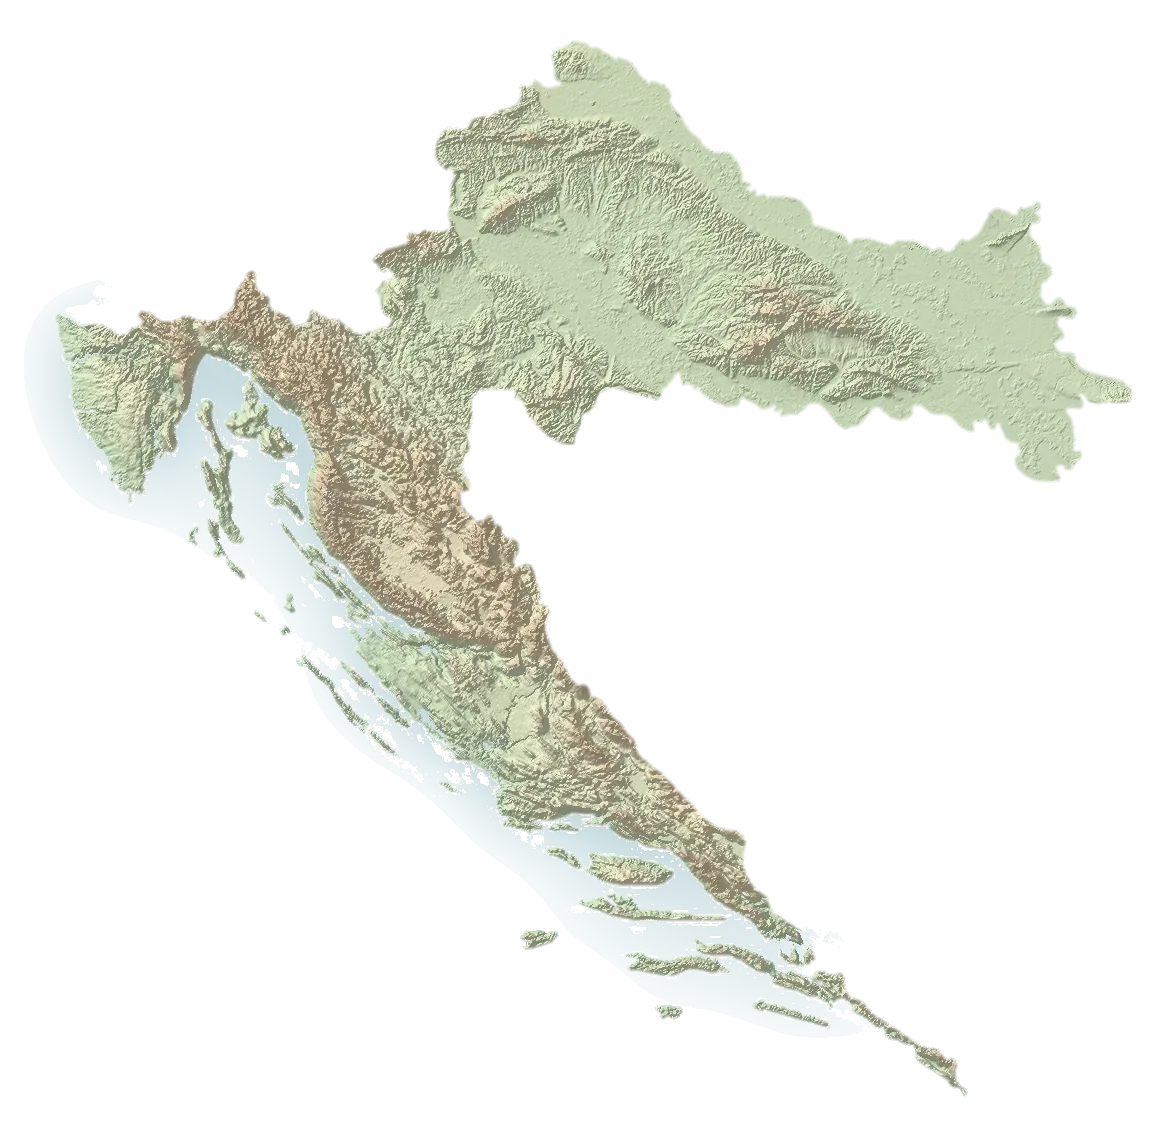
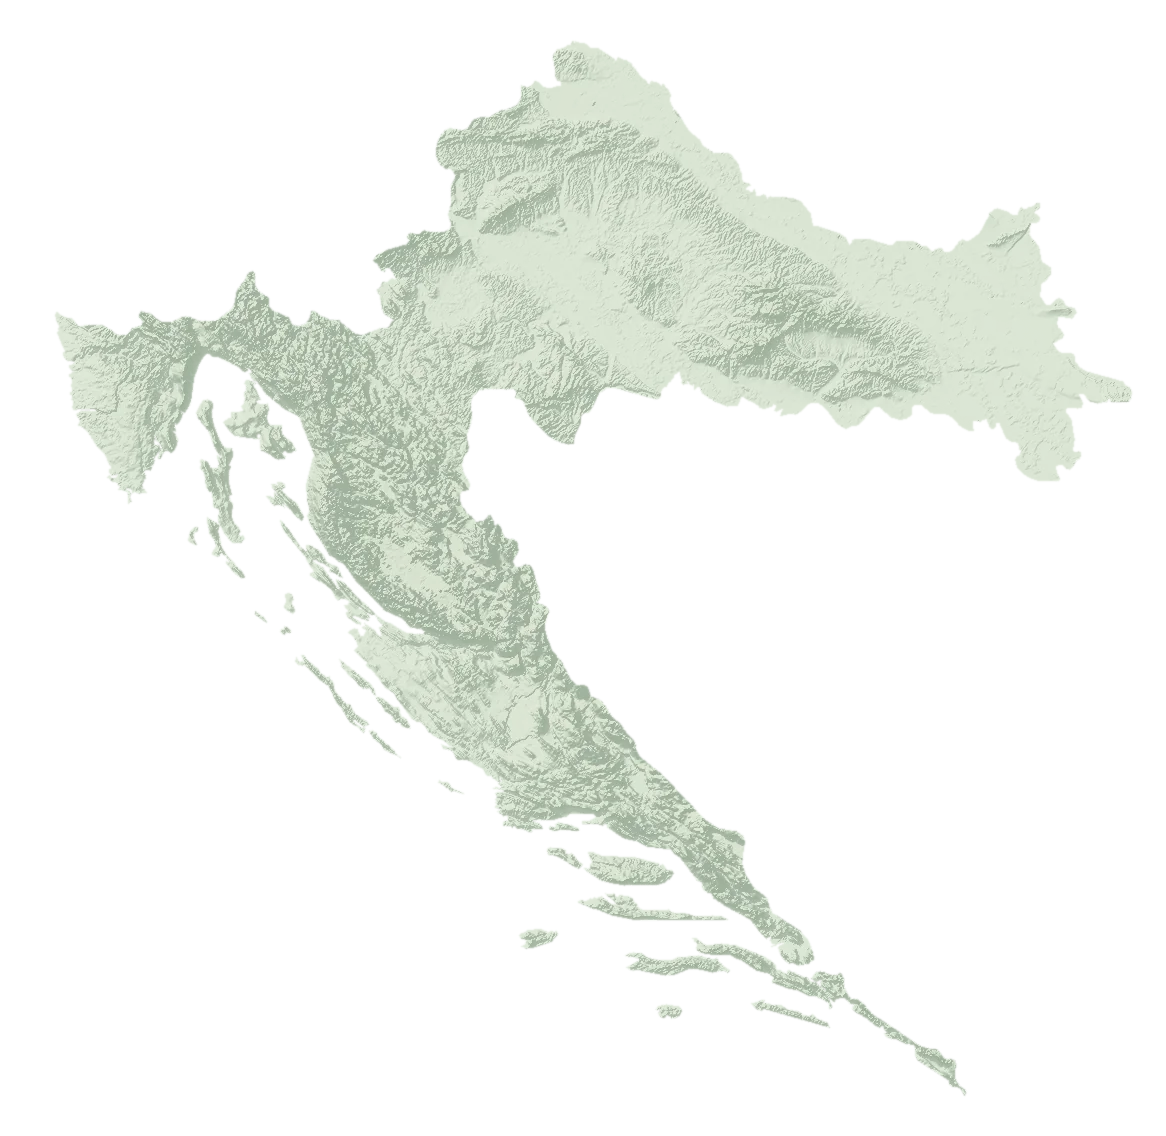
Modern sage relief map of Croatia, further right and quieter under the text

Changed region(s): [[0.0309, 0.0308, 0.988, 0.9243], [0.741, 0.8935, 0.8336, 0.9551], [0.4322, 0.8011, 0.494, 0.8319]]

diff --git a/styles.css b/styles.css
@@ -1191,3 +1191,10 @@ body.loaded .home-hero > .scroll-cue { transform: none; }
 .hr-pin b { font: 500 0.62rem "DM Sans", var(--sans); letter-spacing: 0.22em; text-transform: uppercase; color: var(--green); }
 @media (max-width: 760px) { .hr-map { width: 115vw; right: -25vw; bottom: auto; top: 30%; opacity: 0.3; } }
 .hr-map { opacity: 0.5; bottom: -4%; -webkit-mask-image: none; mask-image: none; }
+/* Modern sage map: further right, softer, quietly under the text */
+.hr-map { width: min(50vw, 720px); right: min(-6vw, -40px); top: 50%; bottom: auto; transform: translateY(-44%); opacity: 0.42; }
+@media (max-width: 760px) { .hr-map { width: 125vw; right: -45vw; top: 40%; opacity: 0.25; } }
+/* Map sits quietly under the text: further right, softer, only a small dot for Rijeka */
+.hr-map { right: min(-11vw, -90px); opacity: 0.36; }
+.hr-pin b { display: none; }
+.hr-pin i { width: 7px; height: 7px; box-shadow: 0 0 0 4px rgba(35, 64, 50, 0.12), 0 0 0 20px rgba(35, 64, 50, 0.05); }

diff --git a/index.html b/index.html
@@ -18,7 +18,7 @@
 <link rel="icon" href="favicon-64.png" type="image/png" sizes="64x64">
 <link rel="apple-touch-icon" href="apple-touch-icon.png">
 <link rel="stylesheet" href="fonts.css?v=1">
-<link rel="stylesheet" href="styles.css?v=88">
+<link rel="stylesheet" href="styles.css?v=90">
 </head>
 <body>
 
@@ -58,7 +58,7 @@
 
   <section class="about-sec" id="o-meni">
     <div class="hr-map" aria-hidden="true">
-      <img src="img/hrvatska-reljef.webp?v=2" alt="" width="1166" height="1136">
+      <img src="img/hrvatska-reljef.webp?v=3" alt="" width="1166" height="1136">
       <span class="hr-pin" style="left:19.48%;top:31.74%"><i></i><b>Rijeka</b></span>
     </div>
     <p class="hero-line"><span class="hero-line-text" data-i18n="goal.close">Vaš posao zaslužuje izgledati jednako dobro na internetu kao i uživo.</span></p>
